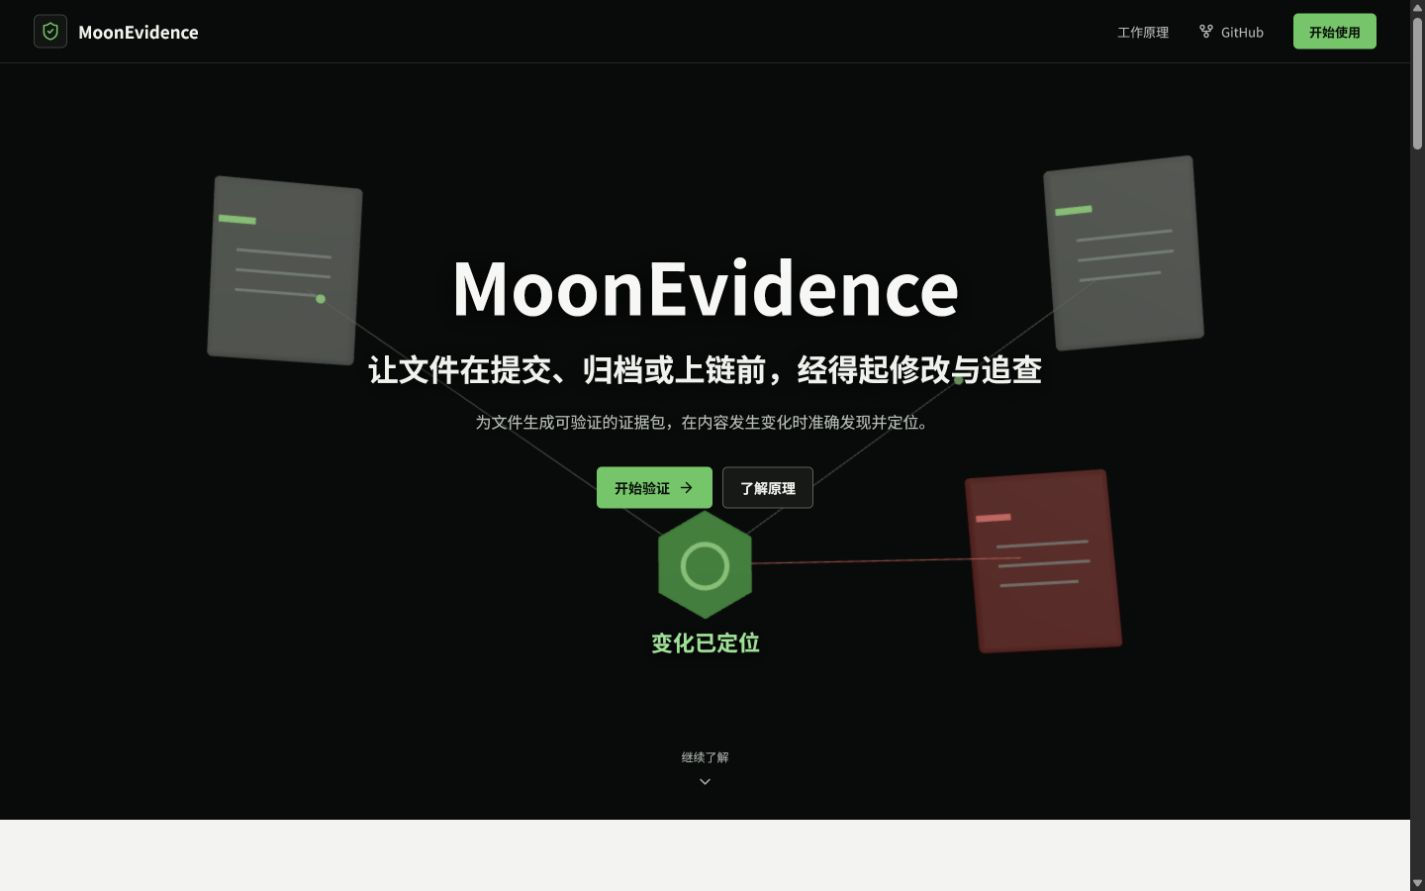
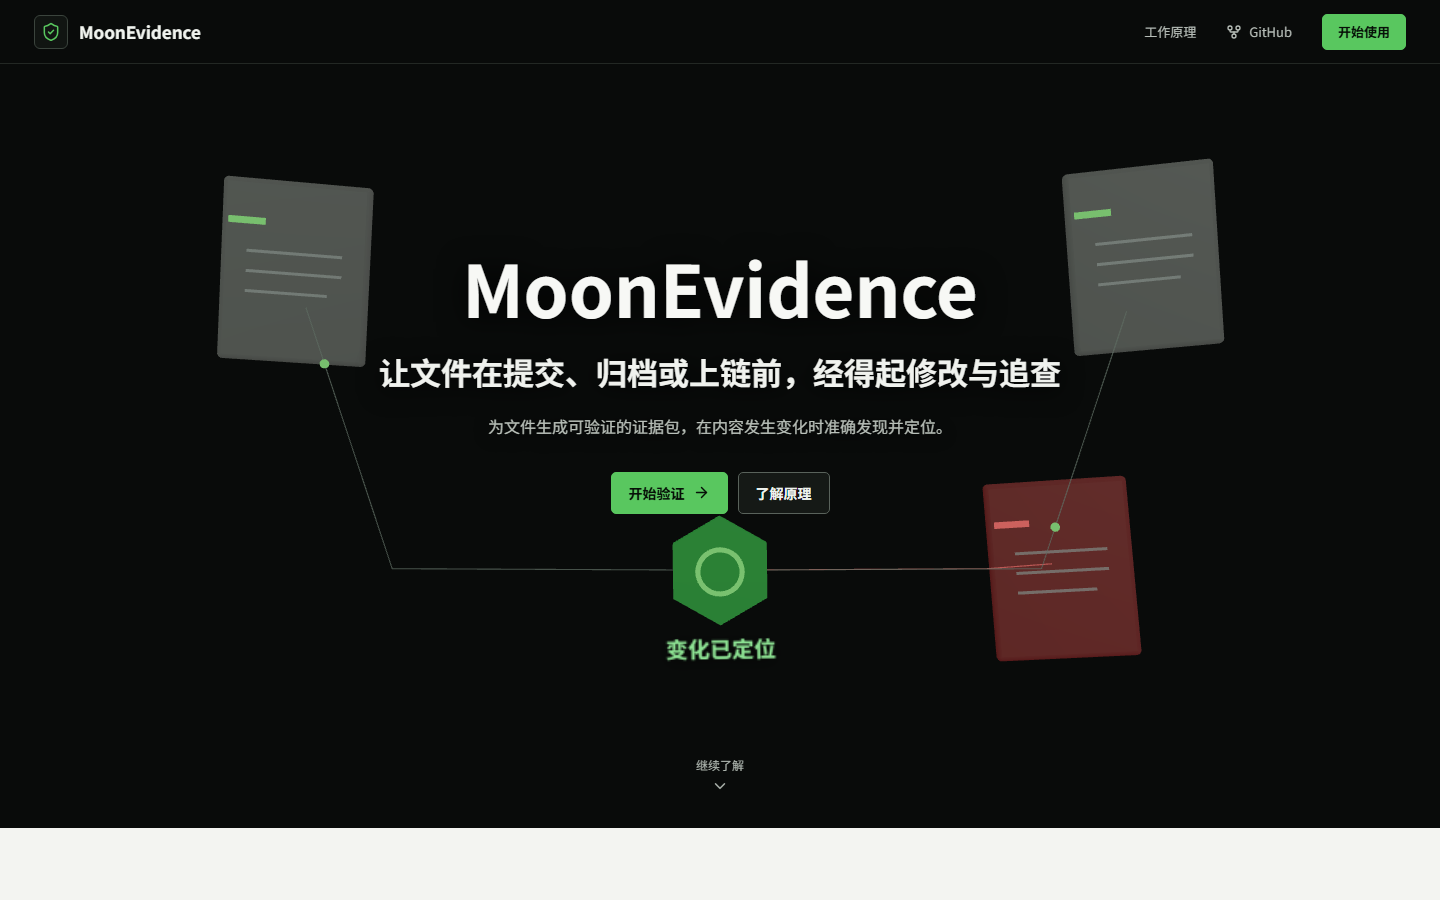
fix(showcase): route hero motion around copy

diff --git a/showcase/src/scene/HeroScene.tsx b/showcase/src/scene/HeroScene.tsx
@@ -71,15 +71,20 @@ function DocumentSlab({
   );
 }
 
-function FlowPulse({ from, to, offset }: { from: Vec3; to: Vec3; offset: number }) {
+function FlowPulse({ from, via, to, offset }: { from: Vec3; via: Vec3; to: Vec3; offset: number }) {
   const mesh = useRef<THREE.Mesh>(null);
   const start = useMemo(() => new THREE.Vector3(...from), [from]);
+  const corner = useMemo(() => new THREE.Vector3(...via), [via]);
   const end = useMemo(() => new THREE.Vector3(...to), [to]);
 
   useFrame((state) => {
     if (!mesh.current) return;
     const t = (state.clock.elapsedTime * 0.12 + offset) % 1;
-    mesh.current.position.lerpVectors(start, end, t);
+    if (t < 0.55) {
+      mesh.current.position.lerpVectors(start, corner, t / 0.55);
+    } else {
+      mesh.current.position.lerpVectors(corner, end, (t - 0.55) / 0.45);
+    }
   });
 
   return (
@@ -149,12 +154,15 @@ function HeroComposition({ scenario }: { scenario: EvidenceScenario }) {
           phase={index * 1.7}
         />
       ))}
-      {positions.map((position, index) => (
-        <group key={`flow-${labels[index]}`}>
-          <Line points={[position, sealPosition]} color={index === 2 ? HERO_COLORS.red : HERO_COLORS.line} lineWidth={1.1} transparent opacity={0.72} />
-          {index < 2 && <FlowPulse from={position} to={sealPosition} offset={index * 0.31} />}
-        </group>
-      ))}
+      {positions.map((position, index) => {
+        const via: Vec3 = [position[0] * 0.76, sealPosition[1], -0.1];
+        return (
+          <group key={`flow-${labels[index]}`}>
+            <Line points={[position, via, sealPosition]} color={index === 2 ? HERO_COLORS.red : HERO_COLORS.line} lineWidth={1.1} transparent opacity={0.72} />
+            {index < 2 && <FlowPulse from={position} via={via} to={sealPosition} offset={index * 0.31} />}
+          </group>
+        );
+      })}
       <EvidenceSeal position={sealPosition} />
     </group>
   );